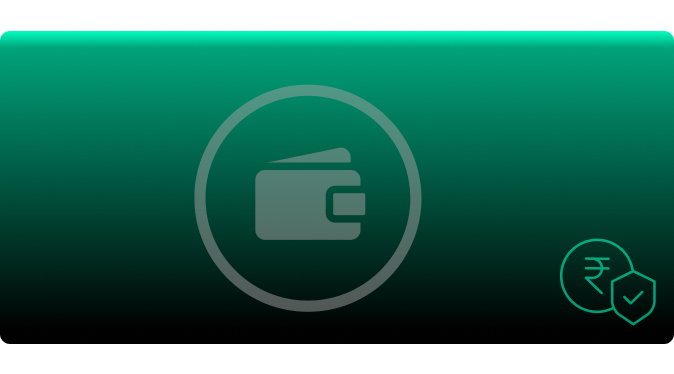
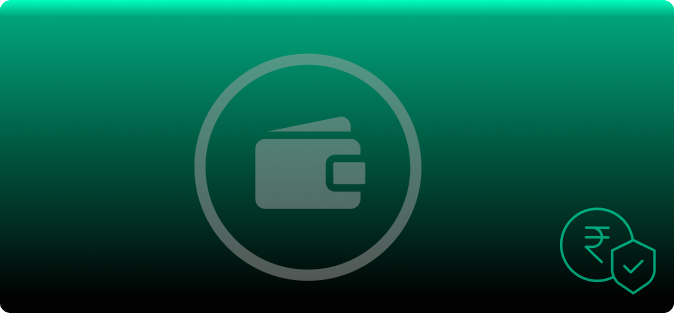
Dashboard UI

diff --git a/src/app/admin/dashboard/dashboard.component.scss b/src/app/admin/dashboard/dashboard.component.scss
@@ -1,8 +1,58 @@
-.photo-and-name {
+section {
+  h3 {
+    font-family: var(--font-one);
+    font-size: var(--medium);
+    margin: 0;
+    margin-bottom: 0.75em;
+  }
+
+  #cards {
+    display: flex;
+    align-items: flex-start;
+    margin-bottom: 2em;
+
+    .card {
+      width: 50%;
+      margin-right: 0.5em;
+      position: relative;
+      transition: all 0.3s;
+
+      &:hover {
+        transform: scale(1.01);
+      }
+
+      &:last-of-type {
+        margin-right: 0;
+      }
+
+      img {
+        width: 100%;
+        z-index: -1;
+      }
+
+      .card-text {
+        position: absolute;
+        top: 2em;
+        left: 2em;
+
+        h3,
+        p {
+          color: var(--primary-contrast);
+        }
+
+        p {
+          font-size: var(--small);
+        }
+      }
+    }
+  }
+
+  .photo-and-name {
     display: flex;
     align-items: center;
 
     img {
-        margin-right: 1em;
+      margin-right: 1em;
     }
+  }
 }

diff --git a/src/app/widgets/header/header.component.scss b/src/app/widgets/header/header.component.scss
@@ -1,22 +1,28 @@
-div.main{
-    display: flex;
-    width: 100%;
-    height:70px;
-    justify-content: space-between;
-    h1{
-        text-transform: capitalize;
-    }
-    button{
-        border: none;
-        padding:0px;
-        margin:10px;
-        background: transparent;
-        mat-icon{
-            color:var(--secondary-contrast);
-            &:hover{
-                color:var(--primary);
-            }
+div.main {
+  display: flex;
+  align-items: center;
+  justify-content: space-between;
+  width: 100%;
+  margin-bottom: 1.5em;
 
-        }
+  h1 {
+    text-transform: capitalize;
+    font-family: var(--font-one);
+    color: var(--tertiary);
+    font-size: var(--large);
+    margin: 0;
+  }
+
+  button {
+    border: none;
+    padding: 0px;
+    margin: 10px;
+    background: transparent;
+    mat-icon {
+      color: var(--secondary-contrast);
+      &:hover {
+        color: var(--primary);
+      }
     }
+  }
 }

diff --git a/src/app/admin/dashboard/dashboard.component.html b/src/app/admin/dashboard/dashboard.component.html
@@ -1,18 +1,18 @@
-<app-header pageName="Dashboard"></app-header>
 <section>
+  <app-header pageName="Dashboard"></app-header>
   <div id="cards">
-    <div class="card">
-      <h3>AEPS MEMBERS</h3>
+    <div class="card" id="aeps-members-card">
+      <img src="assets/img/aeps-members-background.png" />
       <div class="card-text">
-        <p class="key">Total</p>
-        <p class="value">608</p>
+        <h3>AEPS MEMBERS</h3>
+        <p>608</p>
       </div>
     </div>
-    <div class="card">
-      <h3>AEPS BALANCE</h3>
+    <div class="card" id="aeps-balance-card">
+      <img src="assets/img/aeps-balance-background.png" />
       <div class="card-text">
-        <p class="key">Total</p>
-        <p class="value">₹90,00,000</p>
+        <h3>AEPS BALANCE</h3>
+        <p>₹90,00,000</p>
       </div>
     </div>
   </div>

diff --git a/src/app/admin/admin.module.ts b/src/app/admin/admin.module.ts
@@ -4,6 +4,7 @@ import { CommonModule } from '@angular/common';
 import { AdminRoutingModule } from './admin-routing.module';
 import { AdminComponent } from './admin.component';
 import { MatIconModule } from '@angular/material/icon'
+import { WidgetsModule } from '../widgets/widgets.module';
 
 
 @NgModule({
@@ -13,7 +14,8 @@ import { MatIconModule } from '@angular/material/icon'
   imports: [
     CommonModule,
     AdminRoutingModule,
-    MatIconModule
+    MatIconModule,
+    WidgetsModule
   ]
 })
 export class AdminModule { }

diff --git a/src/styles.scss b/src/styles.scss
@@ -5,6 +5,7 @@
   --primary-dark: #016e51;
   --primary-light: #d3eee7;
   --primary-contrast: #fff;
+  --primary-contrast2: #00FFBC; 
   --secondary: #ebf7f4;
   --secondary-dark: #bec8c5;
   --secondary-contrast: #707477;
